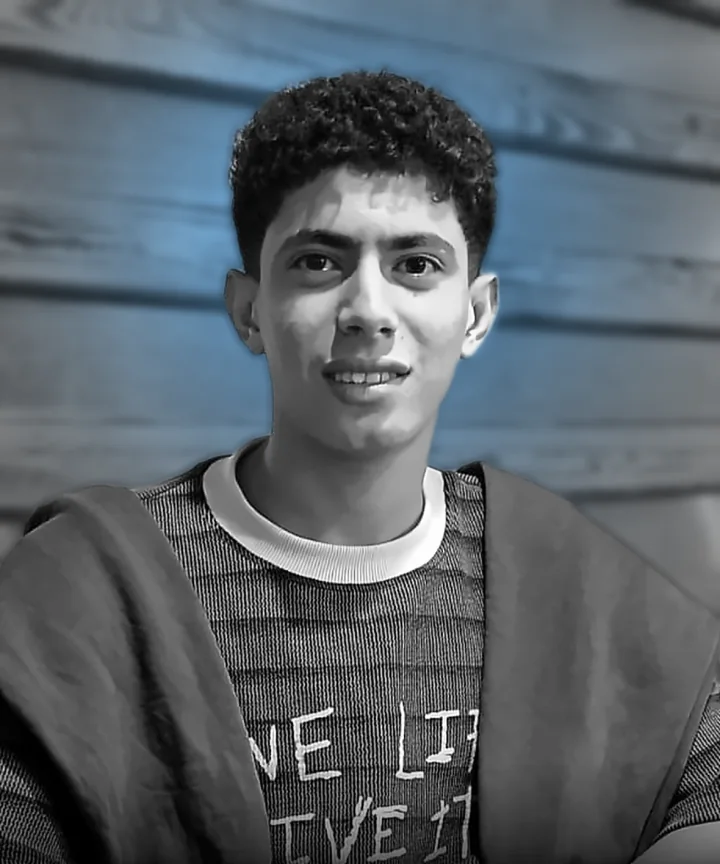
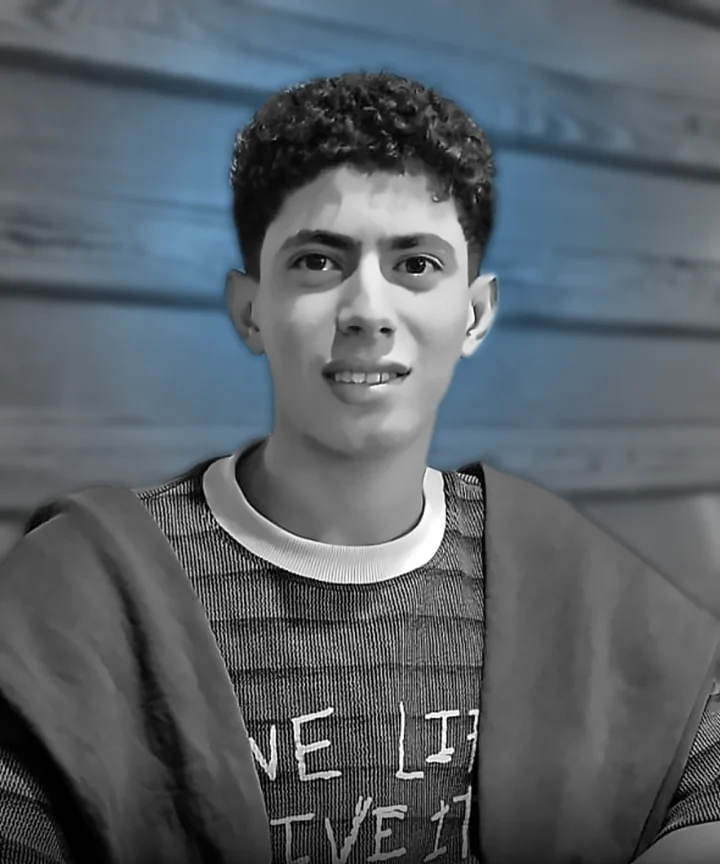
Founder photo: even face light, no noise

diff --git a/index.html b/index.html
@@ -14,7 +14,7 @@
 <meta property="og:title" content="HINDAWY — Take it easy. We’ve got the rest.">
 <meta property="og:description" content="HINDAWY builds systems, automations and AI for schools, education centers, businesses and factories. Founded by Eng. Ahmed Hindawy and Eng. Mohamed Hindawy.">
 <meta name="twitter:card" content="summary">
-<link rel="preload" as="image" href="assets/ahmed-bw.webp">
+<link rel="preload" as="image" href="assets/ahmed-bw.webp?v=4">
 <link rel="preconnect" href="https://fonts.googleapis.com">
 <link rel="preconnect" href="https://fonts.gstatic.com" crossorigin>
 <link rel="stylesheet" href="https://fonts.googleapis.com/css2?family=Archivo:wdth,wght@100..125,400..900&family=Cairo:wght@400..900&family=JetBrains+Mono:wght@400;500;600&family=Instrument+Serif:ital@1&display=swap">
@@ -223,6 +223,6 @@ catch (e) { document.documentElement.dataset.mode = 'dark'; }
 
 <script defer src="https://cdnjs.cloudflare.com/ajax/libs/gsap/3.12.5/gsap.min.js"></script>
 <script defer src="https://cdnjs.cloudflare.com/ajax/libs/gsap/3.12.5/ScrollTrigger.min.js"></script>
-<script defer src="app.js?v=566bf170"></script>
+<script defer src="app.js?v=f407c2e0"></script>
 <script type="importmap">{"imports":{"three":"https://cdn.jsdelivr.net/npm/three@0.160.0/build/three.module.js","three/addons/":"https://cdn.jsdelivr.net/npm/three@0.160.0/examples/jsm/"}}</script>
 <script type="module" src="gears.js?v=eb1378bc"></script>

diff --git a/app.js b/app.js
@@ -119,7 +119,7 @@ if (!reduce) {
 /* ---------- founders: Hunter-style cards ---------- */
 var PERSON = '<svg viewBox="0 0 100 100" fill="currentColor"><circle cx="50" cy="34" r="20"/><path d="M8 100c4-26 22-40 42-40s38 14 42 40z"/></svg>';
 var FOUNDERS = [
-  { no: '001', rank: 'SS', name: 'Eng. Ahmed Hindawy', short: 'AHMED HINDAWY', role: 'Co-Founder & CEO', born: '2010-04-01', photo: 'assets/ahmed-bw.webp',
+  { no: '001', rank: 'SS', name: 'Eng. Ahmed Hindawy', short: 'AHMED HINDAWY', role: 'Co-Founder & CEO', born: '2010-04-01', photo: 'assets/ahmed-bw.webp?v=4',
     roles: ['Automation Engineer', 'Front-End Developer', 'AI Engineer', 'Industrial AI'],
     stats: [['AGE', 'auto'], ['STUDY', 'Baccalaureate'], ['BASED', 'Egypt'], ['PROJECTS', '4+']],
     bio: 'Builds the screens people touch and the automations behind them. Started HINDAWY to give schools, centers and businesses the same quality of software big companies use.',
